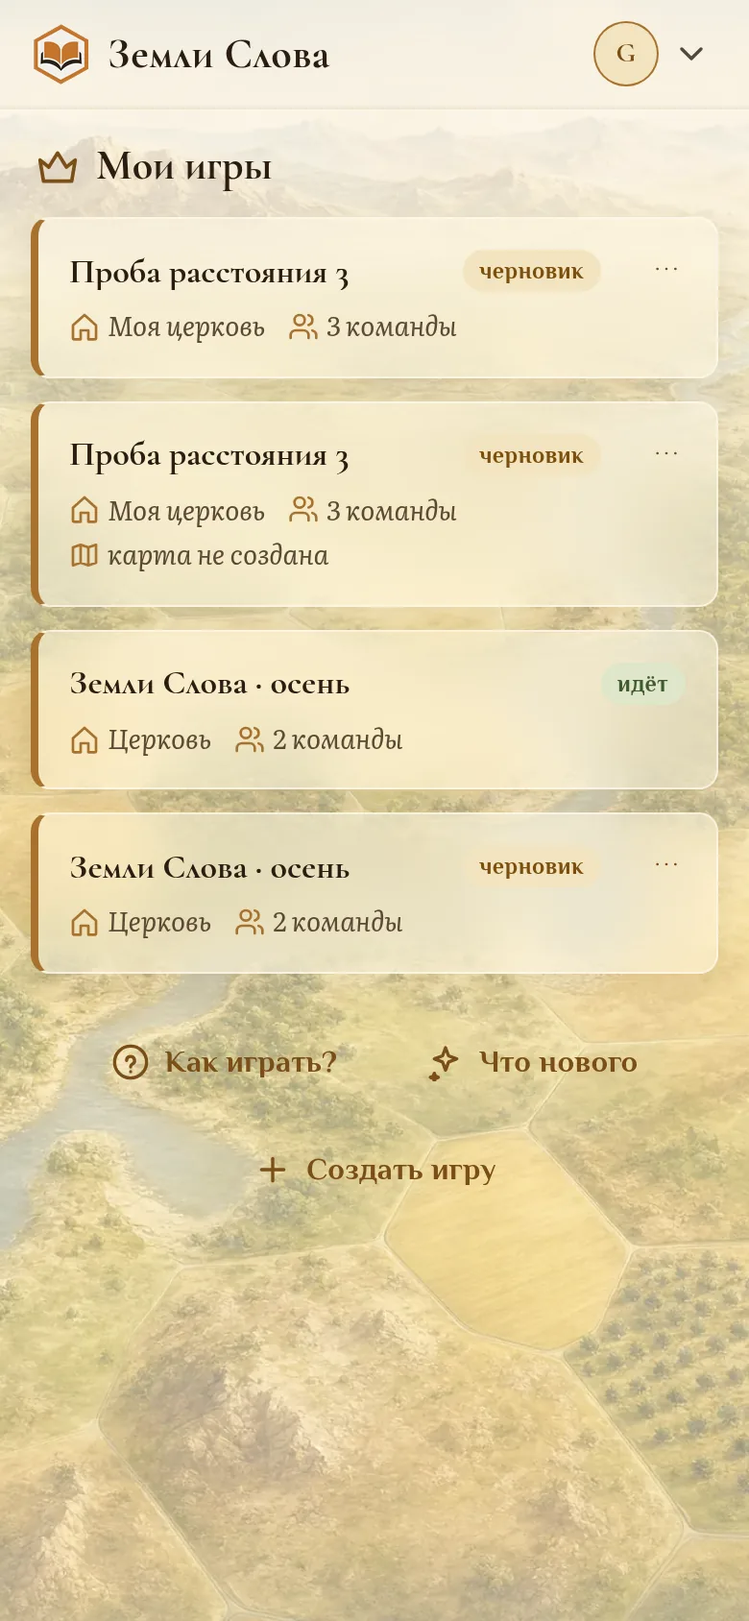
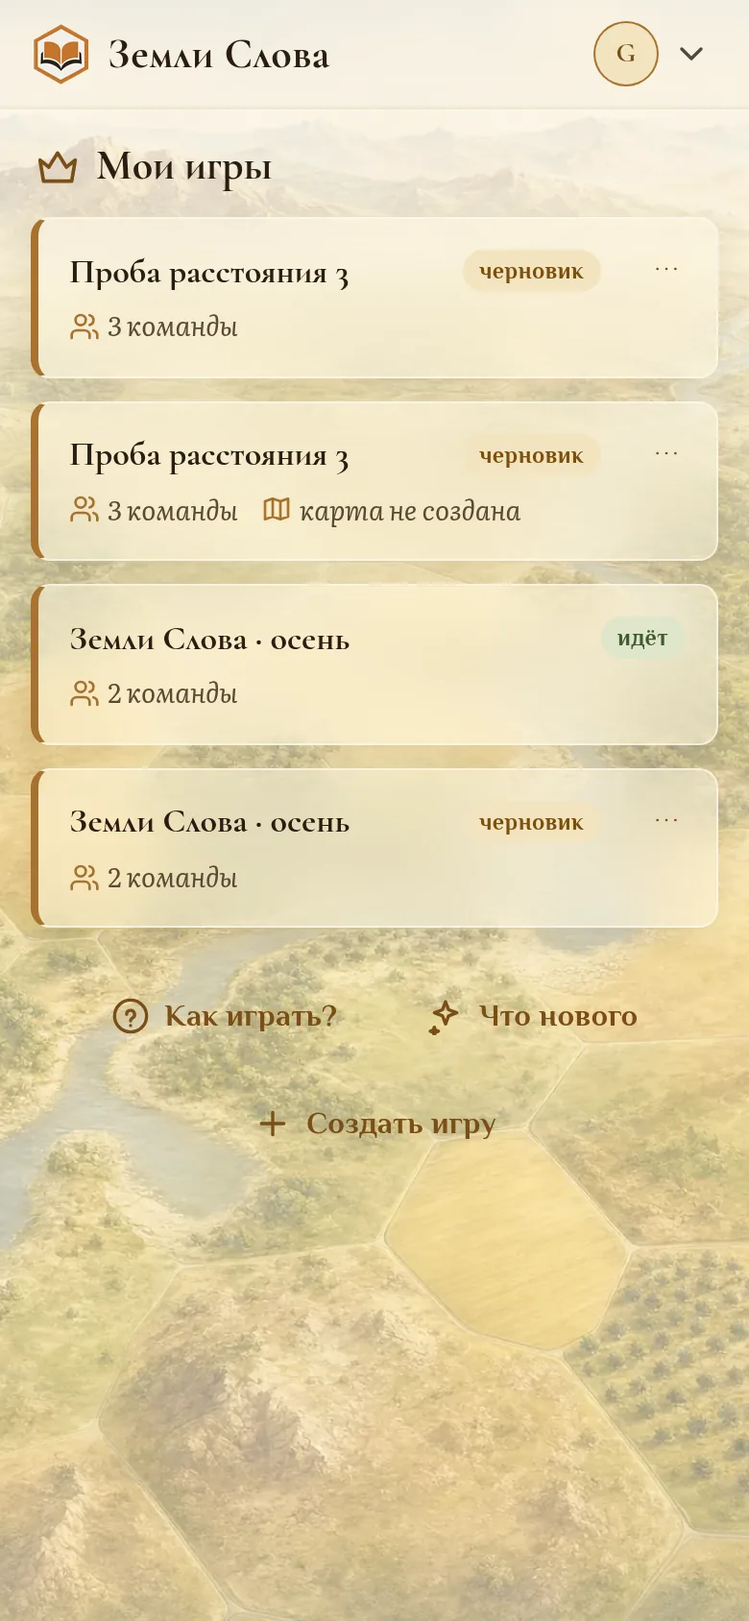
Числовые поля со стрелками (Stepper), поле «Церковь» убрано отовсюду, стекло на страницах под шапкой, в попапах администратора и диалогах, страница игры без карты на пейзаже, кнопки зума на карте убраны (решения владельца 20.09); снимки инструкции обновлены
Claude-Session: https://claude.ai/code/session_01GYZTpVpHB6EzyvMrXyiWEP

diff --git a/apps/web/src/pages/SettingsBlock.tsx b/apps/web/src/pages/SettingsBlock.tsx
@@ -4,12 +4,13 @@ import { useUi } from "../lib/ui";
 import { t } from "../lib/i18n";
 import { Icon } from "../components/Icon";
 import { Help } from "../components/Help";
+import { Stepper } from "../components/Stepper";
 
 export interface RulesDto { minBid: number; attackDays: number; burnPenalty: number; minAnswerSeconds: number; passageDays: number; lockWeeks: number; fatigueAfterDays: number; fatigueStepDays: number; fatigueStep: number; deedReturnDays: number; roleChangeDays: number; pauseSteps: number[]; siegeDays: number; siegeDeedPoints: number; roleCooldownDays: number; chronicleWeekday: number; chronicleHourUtc: number; adminDigest: "instant" | "3h" | "daily" }
 interface GameDto { id: string; name: string; status: string; teamCount: number; mapSeed: number | null; settings: { nodeCount?: number; cityGap?: number; equidistantStarts?: boolean; maxStartDistanceDiff?: number; includeGenealogies?: boolean; donationMin?: number | null; donationCurrency?: string; rules?: RulesDto } }
 type NumKey = Exclude<keyof RulesDto, "pauseSteps" | "adminDigest">;
 /** Продвинутые настройки: правила, которые раньше были зашиты в код (решение владельца 18.09). Подписи короткие, единицы — суффиксом; поля сгруппированы. */
-const RULE_FIELDS: Record<NumKey, { label: () => string; min: number; max: number }> = {
+const RULE_FIELDS: Record<NumKey, { label: () => string; min: number; max: number; step?: number }> = {
   minBid: { label: () => t("Минимальная ставка · стихов"), min: 1, max: 1000 },
   attackDays: { label: () => t("Срок вызова · дней"), min: 1, max: 60 },
   burnPenalty: { label: () => t("Штраф за сгоревший вызов · стихов"), min: 0, max: 100 },
@@ -108,7 +109,7 @@ export function SettingsBlock({ game, onSaved }: { game: GameDto; onSaved: () =>
     return (
       <div key={key} className="rule-row">
         <label htmlFor={id}>{f.label()}</label>
-        <input id={id} type="number" step="any" min={f.min} max={f.max} value={rules[key]} onChange={(e) => setRule(key, e.target.value === "" ? "" : Number(e.target.value))} />
+        <Stepper id={id} value={rules[key] === "" ? "" : Number(rules[key])} min={f.min} max={f.max} step={f.step ?? 1} onChange={(v) => setRule(key, v)} />
       </div>
     );
   };
@@ -124,20 +125,20 @@ export function SettingsBlock({ game, onSaved }: { game: GameDto; onSaved: () =>
               <label htmlFor="s-name">{t("Название")}</label>
               <input id="s-name" value={name} onChange={(e) => setName(e.target.value)} required minLength={2} maxLength={80} />
               <label htmlFor="s-teams">{t("Команд")}</label>
-              <input id="s-teams" type="number" min={2} max={12} value={teamCount} onChange={(e) => setTeamCount(Number(e.target.value))} />
+              <Stepper id="s-teams" value={teamCount} min={2} max={12} onChange={(v) => setTeamCount(v === "" ? 2 : v)} />
             </div>
             <div className="settings-group">
               <h3>{t("Карта и старты")}</h3>
               <label htmlFor="s-nodes">{t("Перекрёстков на карте")}</label>
-              <input id="s-nodes" type="number" min={200} max={600} step={10} value={nodeCount} onChange={(e) => setNodeCount(Number(e.target.value))} />
+              <Stepper id="s-nodes" value={nodeCount} min={200} max={600} step={10} onChange={(v) => setNodeCount(v === "" ? 250 : v)} />
               <label htmlFor="s-gap">{t("Расстояние между городами · сторон")}<Help>{t("Сколько сторон гексов отделяет соседние города, не меньше. По умолчанию 2 (в среднем чуть больше двух). При 3 или 4 путь между городами длиннее, а карта больше: перекрёстков в (N/2)² раз больше, чем задано выше.")}</Help></label>
-              <input id="s-gap" type="number" min={2} max={4} step={1} value={cityGap} onChange={(e) => setCityGap(Number(e.target.value))} />
+              <Stepper id="s-gap" value={cityGap} min={2} max={4} onChange={(v) => setCityGap(v === "" ? 2 : v)} />
               {mapChanged && <p className="note warn"><Icon name="alert" /><span>{t("После изменения числа команд, перекрёстков или расстояния между городами карту нужно сгенерировать заново.")}</span></p>}
               <label className="check mt-3"><input type="checkbox" checked={equidistant} onChange={(e) => setEquidistant(e.target.checked)} />{t("Выровнять расстояние от стартов до первого города")}</label>
               {equidistant && (
                 <div className="sub">
                   <label htmlFor="s-diff">{t("Допустимая разница, ходов")}</label>
-                  <input id="s-diff" type="number" min={0} max={6} value={maxDiff} onChange={(e) => setMaxDiff(Number(e.target.value))} />
+                  <Stepper id="s-diff" value={maxDiff} min={0} max={6} onChange={(v) => setMaxDiff(v === "" ? 3 : v)} />
                 </div>
               )}
             </div>
@@ -152,7 +153,7 @@ export function SettingsBlock({ game, onSaved }: { game: GameDto; onSaved: () =>
           <div className="money">
             <div>
               <label htmlFor="s-don">{t("Минимум")}</label>
-              <input id="s-don" type="number" min={0} value={donationMin} onChange={(e) => setDonationMin(e.target.value === "" ? "" : Number(e.target.value))} />
+              <Stepper id="s-don" value={donationMin} min={0} step={50} onChange={setDonationMin} />
             </div>
             <div>
               <label htmlFor="s-cur">{t("Валюта")}</label>

diff --git a/apps/web/src/lib/en/player.ts b/apps/web/src/lib/en/player.ts
@@ -8,7 +8,7 @@ export const PLAYER: Record<string, string> = {
   "Как играть": "How to play", "Назад": "Back",
   // HUD и меню
   "Меню": "Menu", "Меню · требует внимания: {n}": "Menu · needs attention: {n}", "Меню команды": "Team menu", "Навигация": "Navigation",
-  "Приблизить": "Zoom in", "Отдалить": "Zoom out", "вы капитан": "you are the captain",
+  "вы капитан": "you are the captain",
   "Игра завершена: победила «{team}»": "Game over: “{team}” wins",
   "Наши дела": "Our deeds", "Дела ждут на карте: нажмите на метку на стороне.": "Deeds are waiting on the map: tap a marker on a side.",
   "Испытания": "Trials", "Сейчас испытаний нет.": "No trials right now.", "Испытание · {city}": "Trial · {city}",
@@ -148,7 +148,7 @@ export const PLAYER: Record<string, string> = {
   "В команду попадают по ссылке-приглашению от капитана или администратора. Откройте ссылку, войдите — и команда появится на главной.": "You join a team through an invitation link from the captain or the administrator. Open the link, sign in, and the team appears on the home screen.",
   "Вход и регистрация. Справа сверху — переключение языка.": "Sign in and registration. Top right: language switch.",
   "Главная: ваши команды и игры, кнопка «Как играть?».": "Home: your teams and games, the “How to play?” button.",
-  "Карту двигают одним пальцем, приближают щипком двумя или колесом мыши. Кнопки справа: вся карта, к старту, приблизить, отдалить. Кнопка меню слева сверху открывает дела команды, испытания, положение команд и состав.": "Drag the map with one finger, zoom with a two-finger pinch or the mouse wheel. Buttons on the right: whole map, to the start, zoom in, zoom out. The menu button at the top left opens the team’s deeds, trials, standings and roster.",
+  "Карту двигают одним пальцем, приближают щипком двумя или колесом мыши. Кнопки справа: вся карта и к старту. Кнопка меню слева сверху открывает дела команды, испытания, положение команд и состав.": "Drag the map with one finger, zoom with a two-finger pinch or the mouse wheel. Buttons on the right: whole map and to the start. The menu button at the top left opens the team’s deeds, trials, standings and roster.",
   "Открытая часть карты: перекрёстки, стороны с метками дел, город команды.": "The revealed part of the map: crossroads, sides with deed markers, the team’s city.",
   "Отдалённый вид: туман над неоткрытыми землями, подписи городов.": "Zoomed out: fog over unexplored lands, city labels.",
   "Корабль — обычное дело. Когда его одобрят, капитан выбирает на карте пустую береговую развилку другого острова и высаживается там. Вернуться можно так же, взяв порт на другом острове. Внутри одного острова корабли не ходят.": "A ship is an ordinary deed. Once it is approved, the captain picks an empty coastal crossroads on the other island and lands there. You can return the same way by taking a port on the other island. Ships do not sail within one island.",

diff --git a/apps/web/src/styles/theme.css b/apps/web/src/styles/theme.css
@@ -104,7 +104,8 @@ code { background: var(--paper-light); border-color: var(--paper-edge); }
 .overlay .overlay-foot { border-top: 1px solid var(--paper-edge); }
 .overlay .grabber { background: var(--bronze-light); width: 36px; }
 @media (min-width: 640px) { .overlay { border: 1px solid var(--paper-edge); border-top: 2px solid var(--bronze); } }
-.modal { background: var(--paper-bg); border: 1px solid var(--paper-edge); box-shadow: var(--shadow-deep); }
+/* Диалоги — стекло с размытием (решение владельца 20.09) */
+.modal { background: rgba(255,250,236,.62); border: 1px solid rgba(255,250,236,.75); box-shadow: 0 10px 30px rgba(59,36,21,.18); -webkit-backdrop-filter: blur(16px) saturate(1.05); backdrop-filter: blur(16px) saturate(1.05); }
 .modal h2 { font-family: var(--font-display); }
 .menu { background: var(--paper-light); border-color: var(--paper-edge); box-shadow: var(--shadow-lift); }
 .menu button { background: transparent; color: var(--ink); border: 0; box-shadow: none; text-shadow: none; font-weight: 400; }
@@ -166,3 +167,22 @@ code { background: var(--paper-light); border-color: var(--paper-edge); }
 .scroll-top:hover { background: var(--paper-light); color: var(--ink); }
 .scroll-top .i { width: 22px; height: 22px; }
 @media (prefers-reduced-motion: reduce) { .scroll-top { animation: none; } }
+
+/* ---------- Стекло (решение владельца 20.09): блоки на страницах под шапкой — полупрозрачные с размытием пейзажа ---------- */
+.container .card:not(.season-book .card), .container .tile, .container .summary-tiles a { background: rgba(255,250,236,.5); border: 1px solid rgba(255,250,236,.72); box-shadow: 0 6px 20px rgba(59,36,21,.10); -webkit-backdrop-filter: blur(14px) saturate(1.05); backdrop-filter: blur(14px) saturate(1.05); }
+.container .card .card { background: rgba(255,250,236,.4); box-shadow: none; }
+.container .tile, .container .summary-tiles a { box-shadow: none; -webkit-backdrop-filter: none; backdrop-filter: none; background: rgba(255,250,236,.55); }
+
+/* Числовое поле со стрелками (решение владельца 20.09) */
+.stepper { display: inline-flex; align-items: stretch; width: 128px; max-width: 100%; border: 1px solid var(--border-strong); border-radius: var(--r-xs); background: var(--paper-light); overflow: hidden; }
+.stepper input { flex: 1 1 auto; min-width: 0; width: auto; border: 0; border-radius: 0; background: transparent; box-shadow: none; text-align: center; font: 600 var(--fs-lg)/1 var(--font-input); -moz-appearance: textfield; appearance: textfield; padding: 0 var(--sp-1); }
+.stepper input::-webkit-outer-spin-button, .stepper input::-webkit-inner-spin-button { -webkit-appearance: none; margin: 0; }
+.stepper input:focus { box-shadow: none; }
+.stepper:focus-within { border-color: var(--bronze-ink); box-shadow: var(--ring); }
+.stepper .arrows { display: flex; flex-direction: column; border-left: 1px solid var(--paper-edge); }
+.stepper .arrows button { flex: 1 1 50%; min-height: 0; height: auto; width: 34px; padding: 0; border: 0; border-radius: 0; background: rgba(122,78,23,.05); color: var(--bronze-ink); box-shadow: none; text-shadow: none; display: inline-flex; align-items: center; justify-content: center; }
+.stepper .arrows button + button { border-top: 1px solid var(--paper-edge); }
+.stepper .arrows button:hover { background: rgba(122,78,23,.12); color: var(--ink); }
+.stepper .arrows button:disabled { opacity: .35; }
+.stepper .arrows .i { width: 16px; height: 16px; }
+.rule-row .stepper { width: 140px; }

diff --git a/apps/web/src/lib/en/changelog.ts b/apps/web/src/lib/en/changelog.ts
@@ -1,5 +1,9 @@
 /** EN-строки раздела «Что нового». Ключ — русская строка из content/changelog.ts. */
 export const CHANGELOG_EN: Record<string, string> = {
+  "Числовые поля (команды, перекрёстки, расстояние, ставки правил, пожертвование) стали числом со стрелками вверх/вниз вместо обычного поля.": "Numeric fields (teams, crossings, distance, rule values, donation) are now a number with up/down arrows instead of a plain field.",
+  "Поле «Церковь» убрано отовсюду: игра создаётся по одному названию, команды могут быть сборными; название церкви больше не показывается на главной, в приглашении и в «Книге сезона».": "The “Church” field is gone everywhere: a game is created by its name only, teams can be mixed; the church name is no longer shown on the home page, in the invitation or in the season book.",
+  "Стекло с размытием везде на страницах под шапкой: аналитика, новая игра, аккаунт; попапы разделов администратора и диалоги подтверждения тоже стеклянные. Страница игры без карты — на пейзаже с главной, а не на тёмном поле.": "Glass with blur on every page under the header: analytics, new game, account; the administrator's section pop-ups and confirmation dialogs are glass too. A game page without a map sits on the home landscape instead of a dark field.",
+  "Кнопки «+»/«−» на карте убраны: приближают щипком или колёсиком, справа остались «вся карта» и «к старту».": "The “+”/“−” buttons on the map are removed: zoom with a pinch or the mouse wheel; “whole map” and “to the start” stay on the right.",
   "В аналитике и в «Как играть» после прокрутки вниз появляется кнопка «наверх» справа внизу; кнопка «назад» в «Как играть» тоже закреплена.": "In analytics and “How to play”, a “to the top” button appears at the bottom right after scrolling down; the back button in “How to play” is pinned too.",
   "Вход и приглашение — на том же светлом пейзаже, карточка стеклянная; блоки «Как играть» тоже стеклянные с размытием; на широком экране кнопка «Мои игры» стоит слева от содержимого и не мешает ему.": "Sign-in and invitation pages use the same light landscape with a glass card; the “How to play” blocks are glass with blur too; on a wide screen the “My games” button sits to the left of the content and does not get in the way.",
   "Шапка стеклянная: при прокрутке страница уходит под неё с размытием, заголовки не наезжают; кнопка «назад» закреплена и видна при прокрутке.": "The header is glass: when scrolling, the page slides under it blurred and headings no longer overlap; the back button is pinned and stays visible while scrolling.",

diff --git a/apps/web/src/pages/NewGamePage.tsx b/apps/web/src/pages/NewGamePage.tsx
@@ -3,13 +3,13 @@ import { useNavigate } from "react-router-dom";
 import { api } from "../lib/api";
 import { t } from "../lib/i18n";
 import { Back } from "../components/Back";
+import { Stepper } from "../components/Stepper";
 import { errorText } from "./LoginPage";
 
 /** Создание игры: только название, церковь и число команд. Остальное — в настройках игры. */
 export function NewGamePage() {
   const navigate = useNavigate();
   const [name, setName] = useState("");
-  const [orgName, setOrgName] = useState("");
   const [teamCount, setTeamCount] = useState(3);
   const [error, setError] = useState<string | null>(null);
   const [busy, setBusy] = useState(false);
@@ -18,7 +18,7 @@ export function NewGamePage() {
     e.preventDefault();
     setBusy(true); setError(null);
     try {
-      const r = await api<{ game: { id: string } }>("/api/games", { method: "POST", body: JSON.stringify({ name, orgName: orgName || undefined, teamCount }) });
+      const r = await api<{ game: { id: string } }>("/api/games", { method: "POST", body: JSON.stringify({ name, teamCount }) });
       navigate(`/games/${r.game.id}`);
     } catch (err) { setError(errorText(err)); }
     finally { setBusy(false); }
@@ -32,10 +32,8 @@ export function NewGamePage() {
         <form onSubmit={create}>
           <label htmlFor="gname">{t("Название игры")}</label>
           <input id="gname" value={name} onChange={(e) => setName(e.target.value)} required minLength={2} maxLength={80} placeholder={t("Например: Земли Слова — осень")} autoFocus />
-          <label htmlFor="org">{t("Церковь")}</label>
-          <input id="org" value={orgName} onChange={(e) => setOrgName(e.target.value)} maxLength={80} placeholder={t("Моя церковь")} />
           <label htmlFor="teams">{t("Команд")}</label>
-          <input id="teams" type="number" inputMode="numeric" min={2} max={12} value={teamCount} onChange={(e) => setTeamCount(Number(e.target.value))} required />
+          <Stepper id="teams" value={teamCount} min={2} max={12} onChange={(v) => setTeamCount(v === "" ? 2 : v)} required />
           <p className="hint">{t("Карту, старты и остальное настроите на странице игры.")}</p>
           {error && <p className="error" role="alert">{error}</p>}
           <div className="actions"><button type="submit" disabled={busy}>{t("Создать игру")}</button></div>

diff --git a/apps/web/src/content/changelog.ts b/apps/web/src/content/changelog.ts
@@ -6,6 +6,10 @@ export interface ChangeDay { date: string; items: string[] }
 
 export const CHANGELOG: ChangeDay[] = [
   { date: "2026-09-20", items: [
+    "Числовые поля (команды, перекрёстки, расстояние, ставки правил, пожертвование) стали числом со стрелками вверх/вниз вместо обычного поля.",
+    "Поле «Церковь» убрано отовсюду: игра создаётся по одному названию, команды могут быть сборными; название церкви больше не показывается на главной, в приглашении и в «Книге сезона».",
+    "Стекло с размытием везде на страницах под шапкой: аналитика, новая игра, аккаунт; попапы разделов администратора и диалоги подтверждения тоже стеклянные. Страница игры без карты — на пейзаже с главной, а не на тёмном поле.",
+    "Кнопки «+»/«−» на карте убраны: приближают щипком или колёсиком, справа остались «вся карта» и «к старту».",
     "В аналитике и в «Как играть» после прокрутки вниз появляется кнопка «наверх» справа внизу; кнопка «назад» в «Как играть» тоже закреплена.",
     "Вход и приглашение — на том же светлом пейзаже, карточка стеклянная; блоки «Как играть» тоже стеклянные с размытием; на широком экране кнопка «Мои игры» стоит слева от содержимого и не мешает ему.",
     "Шапка стеклянная: при прокрутке страница уходит под неё с размытием, заголовки не наезжают; кнопка «назад» закреплена и видна при прокрутке.",

diff --git a/apps/web/src/pages/HowToPlayPage.tsx b/apps/web/src/pages/HowToPlayPage.tsx
@@ -30,7 +30,7 @@ export function HowToPlayPage() {
     { icon: "map", title: t("Карта"), paras: [
       t("Карта скрыта туманом. Команда стоит на перекрёстке и видит дела на сторонах, которые из него выходят, но не видит, что за ними: город или пустая развилка."),
       t("Пройденная сторона окрашивается в цвет команды и открывает следующий перекрёсток. По открытым перекрёсткам команда ходит свободно."),
-      t("Карту двигают одним пальцем, приближают щипком двумя или колесом мыши. Кнопки справа: вся карта, к старту, приблизить, отдалить. Кнопка меню слева сверху открывает дела команды, испытания, положение команд и состав."),
+      t("Карту двигают одним пальцем, приближают щипком двумя или колесом мыши. Кнопки справа: вся карта и к старту. Кнопка меню слева сверху открывает дела команды, испытания, положение команд и состав."),
     ], figs: [{ src: "map", caption: t("Открытая часть карты: перекрёстки, стороны с метками дел, город команды.") }, { src: "map-far", caption: t("Отдалённый вид: туман над неоткрытыми землями, подписи городов.") }] },
     { icon: "ship", title: t("Два острова и корабли"), paras: [
       t("Карта — два острова: Ветхий Завет и Новый Завет. Старт — на Ветхом. Города на берегу — порты: когда команда берёт порт, у него появляется корабль."),

diff --git a/apps/web/src/lib/en/admin.ts b/apps/web/src/lib/en/admin.ts
@@ -63,7 +63,7 @@ export const ADMIN: Record<string, string> = {
   "Убрать срок": "Remove deadline", "Необратимо: испытания отменятся, действия команд остановятся, победитель — по числу городов.": "Irreversible: trials are cancelled, team actions stop, the winner is by the number of cities.",
   "Испытания {a} · {b} · {c}": "Trials {a} · {b} · {c}", "выиграли · устояли · потеряли": "won · held · lost",
   // Карта
-  "Приблизить": "Zoom in", "Отдалить": "Zoom out", "Обозначения": "Legend", "пройденная сторона": "passed side", "открытый перекрёсток": "opened crossroad", "город с владельцем": "city with an owner", "идёт испытание": "trial in progress",
+  "Обозначения": "Legend", "пройденная сторона": "passed side", "открытый перекрёсток": "opened crossroad", "город с владельцем": "city with an owner", "идёт испытание": "trial in progress",
   "Ключ (в конверте)": "Key (in the envelope)", "Испытание: «{a}» бросает вызов «{d}», ставка {n}": "Trial: “{a}” challenges “{d}”, bid {n}", "Открыть в Проверке": "Open in Review", "Команд пока нет.": "No teams yet.",
   "столица здесь": "capital is here", "взяла город": "took the city", "задания {a} из {b}": "tasks {a} of {b}", "собирает порядок районов · попыток {n}": "arranging the districts · attempts {n}",
   "Задания и ответы": "Tasks and answers", "знак шифра": "cipher sign", "Тестовые действия": "Test actions", "Старт команды «{name}»": "Start of team “{name}”", "Перекрёсток ещё никто не открыл.": "Nobody has opened this crossroad yet.",

diff --git a/apps/web/src/components/Stepper.tsx b/apps/web/src/components/Stepper.tsx
@@ -1,0 +1,25 @@
+import { Icon } from "./Icon";
+import { t } from "../lib/i18n";
+
+/**
+ * Числовое поле со стрелками вверх/вниз (решение владельца 20.09: вместо «прямых» полей). Число можно и набрать,
+ * и накрутить стрелками; границы min/max соблюдаются, шаг — step.
+ */
+export function Stepper({ id, value, onChange, min, max, step = 1, required, ariaLabel }: {
+  id: string; value: number | ""; onChange: (v: number | "") => void; min?: number; max?: number; step?: number; required?: boolean; ariaLabel?: string;
+}) {
+  const clamp = (v: number) => Math.min(max ?? Infinity, Math.max(min ?? -Infinity, v));
+  const round = (v: number) => { const d = String(step).split(".")[1]?.length ?? 0; return Number(v.toFixed(Math.min(6, d))); };
+  const bump = (dir: 1 | -1) => onChange(round(clamp((value === "" ? (min ?? 0) : value) + dir * step)));
+  const atMin = value !== "" && min !== undefined && value <= min, atMax = value !== "" && max !== undefined && value >= max;
+  return (
+    <div className="stepper">
+      <input id={id} type="number" inputMode="decimal" step={step} min={min} max={max} value={value} required={required} aria-label={ariaLabel}
+        onChange={(e) => onChange(e.target.value === "" ? "" : Number(e.target.value))} onBlur={() => { if (value !== "") onChange(round(clamp(value))); }} />
+      <div className="arrows">
+        <button type="button" className="ghost" tabIndex={-1} aria-label={t("Больше")} disabled={atMax} onClick={() => bump(1)}><Icon name="chevron-up" /></button>
+        <button type="button" className="ghost" tabIndex={-1} aria-label={t("Меньше")} disabled={atMin} onClick={() => bump(-1)}><Icon name="chevron-down" /></button>
+      </div>
+    </div>
+  );
+}

diff --git a/apps/web/src/styles/theme-admin.css b/apps/web/src/styles/theme-admin.css
@@ -166,3 +166,10 @@ details.settings-group summary::after { content: ""; width: 20px; height: 20px; 
   .season-book .book-head h1, .season-book .book-head .org, .season-book .book-head .dates, .season-book .book-head .winner { color: #1F1B16; text-shadow: none; }
   .season-book .book-chronicle, .season-book .book-standings .rank { background: none !important; color: #1F1B16; border: 0; text-shadow: none; }
 }
+
+/* Страница игры без карты: пейзаж с главной вместо тёмного поля; блок и попапы разделов — стекло (решение владельца 20.09) */
+.admin-map-area:has(.admin-empty) { background: linear-gradient(180deg, rgba(247,240,224,.42), rgba(247,240,224,.34)), url("/img/ui/bg-land-wide.webp") center / cover no-repeat var(--bg); }
+.admin-empty .card { background: rgba(255,250,236,.5); border: 1px solid rgba(255,250,236,.72); box-shadow: 0 6px 20px rgba(59,36,21,.10); -webkit-backdrop-filter: blur(14px) saturate(1.05); backdrop-filter: blur(14px) saturate(1.05); }
+.admin-popup .overlay { background: rgba(255,250,236,.6); border-top: 2px solid var(--bronze); -webkit-backdrop-filter: blur(16px) saturate(1.05); backdrop-filter: blur(16px) saturate(1.05); }
+.admin-popup .overlay .overlay-head { background: rgba(255,250,236,.35); }
+.admin-popup .overlay-body .card { background: rgba(255,250,236,.45); border: 1px solid rgba(255,250,236,.7); box-shadow: none; }

diff --git a/apps/web/src/pages/GamesPage.tsx b/apps/web/src/pages/GamesPage.tsx
@@ -85,7 +85,7 @@ export function GamesPage() {
                 <TeamAvatar name={tm.team.name} color={tm.team.color} size="lg" />
                 <div className="main">
                   <div className="title"><span className="name">{tm.team.name}</span>{tm.role === "CAPTAIN" && <Chip icon="star">{t("капитан")}</Chip>}<StatusChip status={tm.game.status} /></div>
-                  <div className="meta"><span>{tm.game.name} · {tm.game.org.name}</span></div>
+                  <div className="meta"><span>{tm.game.name}</span></div>
                 </div>
                 <div className="side"><Icon name="chevron" /></div>
               </Link>
@@ -103,7 +103,6 @@ export function GamesPage() {
                 <Link to={`/games/${g.id}`} className="card-link">
                   <div className="title"><span className="name">{g.name}</span><StatusChip status={g.status} /></div>
                   <div className="meta">
-                    <span><Icon name="home" />{g.org.name}</span>
                     <span><Icon name="users" />{plural(g.teamCount, ["команда", "команды", "команд"])}</span>
                     {g.status === "DRAFT" && g.mapSeed == null && <span><Icon name="map" />{t("карта не создана")}</span>}
                   </div>

diff --git a/apps/web/src/pages/AdminMap.tsx b/apps/web/src/pages/AdminMap.tsx
@@ -211,8 +211,6 @@ export function AdminMap({ gameId, hexes, nodes, edges, progress, cities, battle
         </div>
         <div className="map-controls">
           <button type="button" className="secondary icon" onClick={vp.fit} aria-label={t("Вся карта")} title={t("Вся карта")}><Icon name="expand" /></button>
-          <button type="button" className="secondary icon" onClick={() => vp.zoomAt(1.3)} aria-label={t("Приблизить")} title={t("Приблизить")}><Icon name="zoom-in" /></button>
-          <button type="button" className="secondary icon" onClick={() => vp.zoomAt(1 / 1.3)} aria-label={t("Отдалить")} title={t("Отдалить")}><Icon name="zoom-out" /></button>
         </div>
         </>)}
         {viewedTeam && !fullscreen && <p className="hint view-as-hint">{t("Карта глазами команды «{name}»: туман, стороны и метки как у неё. Нажмите свиток или город, чтобы увидеть дело или ход занятия города.", { name: viewedTeam.name })}</p>}
